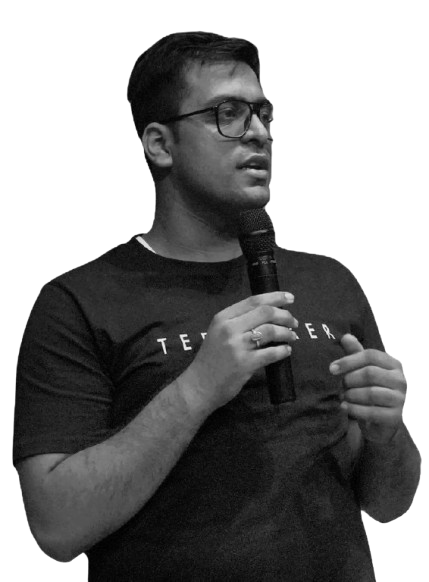
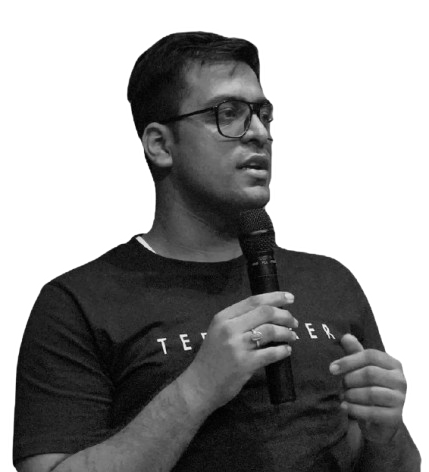
fix speakers mobile view

diff --git a/src/config/team.js b/src/config/team.js
@@ -8,7 +8,7 @@ export const judges =
             socials: {
                 linkedin: "https://www.linkedin.com/in/harshitajain16/",
                 twitter: "https://x.com/harshitajain561",
-                github: "https://github.com/harshitajain165"
+                // github: "https://github.com/harshitajain165"
             },
         },
         {
@@ -23,7 +23,7 @@ export const judges =
         {
             name: "Khushi Mahawar",
             position: "MLH Coach",
-            imageSrc: "/images/judges/Khushi Mahawar.png",
+            imageSrc: "/images/judges/Khushi mahawar.png",
             socials: {
                 linkedin: "https://www.linkedin.com/in/khushi-mahawar/",
                 twitter: "#",
@@ -36,7 +36,7 @@ export const judges =
             socials: {
                 linkedin: "https://www.linkedin.com/in/akashverma095",
                 twitter: "https://x.com/AkashV_095",
-                github: "https://github.com/Akash-095"
+                //  github: "https://github.com/Akash-095"
             },
         },
         {
@@ -55,13 +55,13 @@ export const judges =
             socials: {
                 linkedin: "https://linkedin.com/in/ayush-kumar-984443191",
                 twitter: "https://x.com/AyushKu38757918",
-                github: "https://github.com/Ayush7614"
+                // github: "https://github.com/Ayush7614"
             },
         },
         {
             name: "F. Calvin ",
             position: "Diamante Blockchain",
-            imageSrc: "/images/judges/F Calvin joshua.png",
+            imageSrc: "/images/judges/F Calvin Joshua.png",
             socials: {
                 linkedin: "https://www.linkedin.com/in/f-calvin-joshua-3039b7213/",
                 twitter: "https://x.com/im_calvin1",
@@ -71,7 +71,7 @@ export const judges =
         {
             name: "Manish Kumar",
             position: "HackQuest",
-            imageSrc: "/images/judges/Manish Kumar.png",
+            imageSrc: "/images/judges/manish kumar.png",
             socials: {
                 linkedin: "https://www.linkedin.com/in/imanishbarnwal/",
                 twitter: "https://twitter.com/imanishbarnwal",
@@ -85,7 +85,7 @@ export const judges =
             socials: {
                 linkedin: "https://www.linkedin.com/in/mdmemonyasin",
                 twitter: "https://x.com/mdmemonyasin",
-                github: "https://github.com/mdmemonyasin"
+                //  github: "https://github.com/mdmemonyasin"
             },
         },
         {
@@ -95,7 +95,7 @@ export const judges =
             socials: {
                 linkedin: "https://www.linkedin.com/in/nikeight",
                 twitter: "https://x.com/nikeight_",
-                github: "https://github.com/nikeight"
+                // github: "https://github.com/nikeight"
             },
         },
         {
@@ -105,11 +105,11 @@ export const judges =
             socials: {
                 linkedin: "https://linkedin.com/in/sanskriti-harmukh",
                 twitter: "https://x.com/Senzkriti",
-                github: "https://github.com/SanskritiHarmukh"
+                // github: "https://github.com/SanskritiHarmukh"
             },
         },
         {
-            name: "Suryakanta Mahanty",
+            name: "Suryakanta",
             position: "Diamante Blockchain",
             imageSrc: "/images/judges/Suryakanta Mahanty.png",
             socials: {
@@ -198,16 +198,16 @@ export const judges =
 
             },
         },
-        {
-            name: "Aayush Bisen",
-            position: "Health Vectors",
-            imageSrc: "/images/judges/Aayush Bisen.png",
-            socials: {
-                linkedin: "https://www.linkedin.com/in/aayushbisen/",
-                twitter: "https://twitter.com/aayushbisen_",
+        // {
+        //     name: "Aayush Bisen",
+        //     position: "Health Vectors",
+        //     imageSrc: "/images/judges/Aayush Bisen.png",
+        //     socials: {
+        //         linkedin: "https://www.linkedin.com/in/aayushbisen/",
+        //         twitter: "https://twitter.com/aayushbisen_",
 
-            },
-        },
+        //     },
+        // },
         {
             name: "Param Siddharth",
             position: "TravelopiaGroup",

diff --git a/src/styles/TeamMember.css b/src/styles/TeamMember.css
@@ -18,11 +18,11 @@
   font-family: "Anton";
 }
 
-.team h2 {
+/* .team h2 {
   font-size: 3rem;
   margin-bottom: 50px;
   letter-spacing: 5px;
-}
+} */
 
 .team-member {
   display: flex;
@@ -37,9 +37,10 @@
 .team-member-image {
   display: flex;
   justify-content: center;
-  align-items: center;
+  /* align-items: center; */
   width: 50%;
   height: 100%;
+  /* background-color: #777777; */
 }
 
 .bw-image img {
@@ -114,25 +115,26 @@
     padding: 100px 0;
   }
   .team-member {
-    gap: 0.1rem;
-    margin-bottom: 30px;
+    gap: 1.1rem;
+    margin-bottom: -20px;
+    justify-content: center;
   }
-  .team h2 {
-    font-size: 1.8rem;
+  /* .team h2 {
+    font-size: 1.6rem;
     margin-bottom: 50px;
     letter-spacing: 5px;
-  }
+  } */
   .team-member-image {
-    width: 50%;
-    height: 90%;
+    width: 35%;
+    height: 70%;
   }
   .bw-image img {
     width: 80%;
     height: 80%;
   }
   .team-member-details {
-    height: 70%;
-    width: 40%;
+    height: 60%;
+    width: 46%;
   }
   .person-name {
     margin-top: 10px;

diff --git a/src/components/Navbar.jsx b/src/components/Navbar.jsx
@@ -111,9 +111,14 @@ const Navbar = () => {
           <li>
             <span onClick={() => handleScroll("#home")}>Home</span>
           </li>
-          {/* <li>
-          <span onClick={() => handleScroll("#aboutUS")}>About Us</span>
-        </li> */}
+          <li>
+            <span onClick={() => handleScroll("#aboutUS")}>About Us</span>
+          </li>
+          <li>
+            <span onClick={() => handleScroll("#judge")}>
+              Speakers & judges
+            </span>
+          </li>
           {/* <li>
             <span onClick={() => handleScroll("#venue")}>Venue</span>
           </li>
@@ -132,6 +137,11 @@ const Navbar = () => {
           <li>
             <Link href="/partners" onClick={() => setHamBurger(false)}>
               Partners
+            </Link>
+          </li>
+          <li>
+            <Link href="/organizers" onClick={() => setHamBurger(false)}>
+              Organizers
             </Link>
           </li>
           {/* <li>

diff --git a/src/components/Judge.jsx b/src/components/Judge.jsx
@@ -7,7 +7,7 @@ import Image from "next/image";
 
 const Judge = () => {
   return (
-    <section className="team">
+    <section className="team" id="judge">
       <Image
         src="/images/backgrounds/bg_1.jpg"
         alt="Background"

diff --git a/src/styles/Navbar.css b/src/styles/Navbar.css
@@ -252,7 +252,7 @@ a {
     bottom: 5rem;
     background: rgba(0, 0, 0, 0.5);
     backdrop-filter: blur(0.5rem);
-    border: 1px solid #ffffff38;
+
     backdrop-filter: blur(0.5rem);
     border-radius: 40px;
     /* padding: 0.5rem; */

diff --git a/src/app/page.js b/src/app/page.js
@@ -14,7 +14,7 @@ export default function Home() {
         <WhatIsHTS />
         <Glimpse />
         <Judge />
-        <Organizers />
+        {/* <Organizers /> */}
       </main>
     </>
   );

diff --git a/src/app/organizers/page.jsx b/src/app/organizers/page.jsx
@@ -1,0 +1,8 @@
+import Organizers from "@/components/Organizers";
+import React from "react";
+
+const page = () => {
+  return <Organizers />;
+};
+
+export default page;

diff --git a/src/styles/organizers.css b/src/styles/organizers.css
@@ -25,4 +25,7 @@
     flex-direction: column;
     align-items: center;
   }
+  .organizers {
+    margin-bottom: 25vw;
+  }
 }
